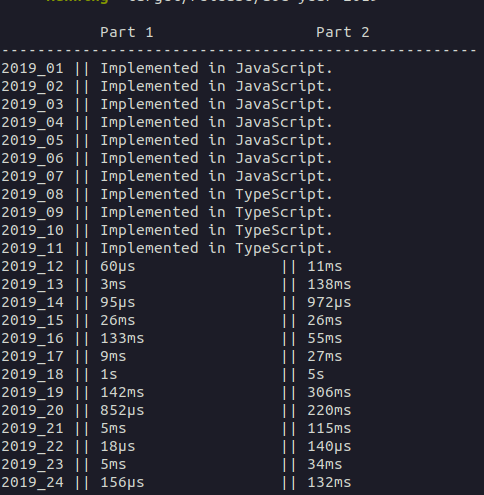
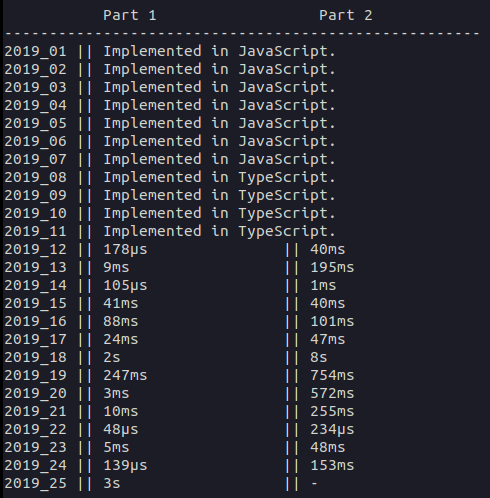
2019 day25 fixed

diff --git a/rust/src/year_2019/day25.rs b/rust/src/year_2019/day25.rs
@@ -1,7 +1,4 @@
-use std::{
-    collections::{HashMap, VecDeque},
-    io::{self, BufRead},
-};
+use std::collections::{HashMap, VecDeque};
 
 use crate::Solution;
 
@@ -228,47 +225,45 @@ pub fn part1(s: String) -> Solution {
     ));
     run_intcode(&mut prg);
 
-    // TODO fix this day : it is stuck in an infinite loop
-    loop {
-        // println!("{}", ascii_to_str(&prg.outputs));
-        prg.outputs.clear();
-        let mut line = String::new();
-        let stdin = io::stdin();
-        stdin.lock().read_line(&mut line).unwrap();
+    // println!("{}", ascii_to_str(&prg.outputs));
+    prg.outputs.clear();
 
-        if line == "bruteforce\n" {
-            // println!("bruteforcing !");
-            for mut i in 0..255 {
-                let mut s: String = names
-                    .iter()
-                    .map(|name| format!("drop {}\n", name))
-                    .collect();
+    // bruteforcing the combination of objects
+    for mut i in 0..255 {
+        let mut s: String = names
+            .iter()
+            .map(|name| format!("drop {}\n", name))
+            .collect();
 
-                for j in 0..8 {
-                    if i % 2 == 1 {
-                        s = format!("{s}take {}\n", names[j])
-                    }
-
-                    i /= 2;
-                }
-
-                s = format!("{s}west\n");
-                prg.inputs.append(&mut str_to_ascii(&s));
-                run_intcode(&mut prg);
-
-                let answer = ascii_to_str(&prg.outputs);
-                prg.outputs.clear();
-                // if answer.contains("password") {
-                return Solution::from(answer);
-                // return 0;
-                // }
+        for j in 0..8 {
+            if i % 2 == 1 {
+                s = format!("{s}take {}\n", names[j])
             }
-        } else {
-            prg.inputs.append(&mut str_to_ascii(&line));
+
+            i /= 2;
         }
 
+        s = format!("{s}west\n");
+        prg.inputs.append(&mut str_to_ascii(&s));
         run_intcode(&mut prg);
+
+        let answer = ascii_to_str(&prg.outputs);
+        prg.outputs.clear();
+
+        // println!("{}", answer);
+
+        if answer.contains("Santa notices") {
+            for w in answer.split_ascii_whitespace() {
+                if let Ok(password) = w.parse::<i64>() {
+                    return Solution::from(password);
+                }
+            }
+
+            return Solution::NotFound;
+        }
     }
+
+    return Solution::NotFound;
 }
 
 pub fn part2(_: String) -> Solution {

diff --git a/rust/src/main.rs b/rust/src/main.rs
@@ -47,11 +47,15 @@ fn print_line((sol, duration): (Solution, Duration), name: &str) {
 
 fn day(args: Vec<String>) {
     let print_line = |(sol, duration): (Solution, Duration), name: &str| match sol {
-        Solution::Num(_) | Solution::String(_) | Solution::NotFound => println!(
-            "{name} -> {sol} {}, {:.2?}",
-            " ".repeat(20 - sol.to_string().len()),
-            duration
-        ),
+        Solution::Num(_) | Solution::String(_) | Solution::NotFound => {
+            let sol_len = sol.to_string().len();
+
+            println!(
+                "{name} -> {sol} {}, {:.2?}",
+                " ".repeat(20.max(sol_len + 1) - sol_len),
+                duration
+            );
+        }
         Solution::NotImplemented | Solution::Day25Part2 => println!("{}", sol),
     };
 

diff --git a/README.md b/README.md
@@ -55,8 +55,6 @@ Some days deserve to be much more optimized than they currently are.
 
 ### 2019
 
-Day25 needs a fix to read output.
-
 ![benchmarks_2019.png](images/benchmarks_2019.png)
 
 ### 2020
